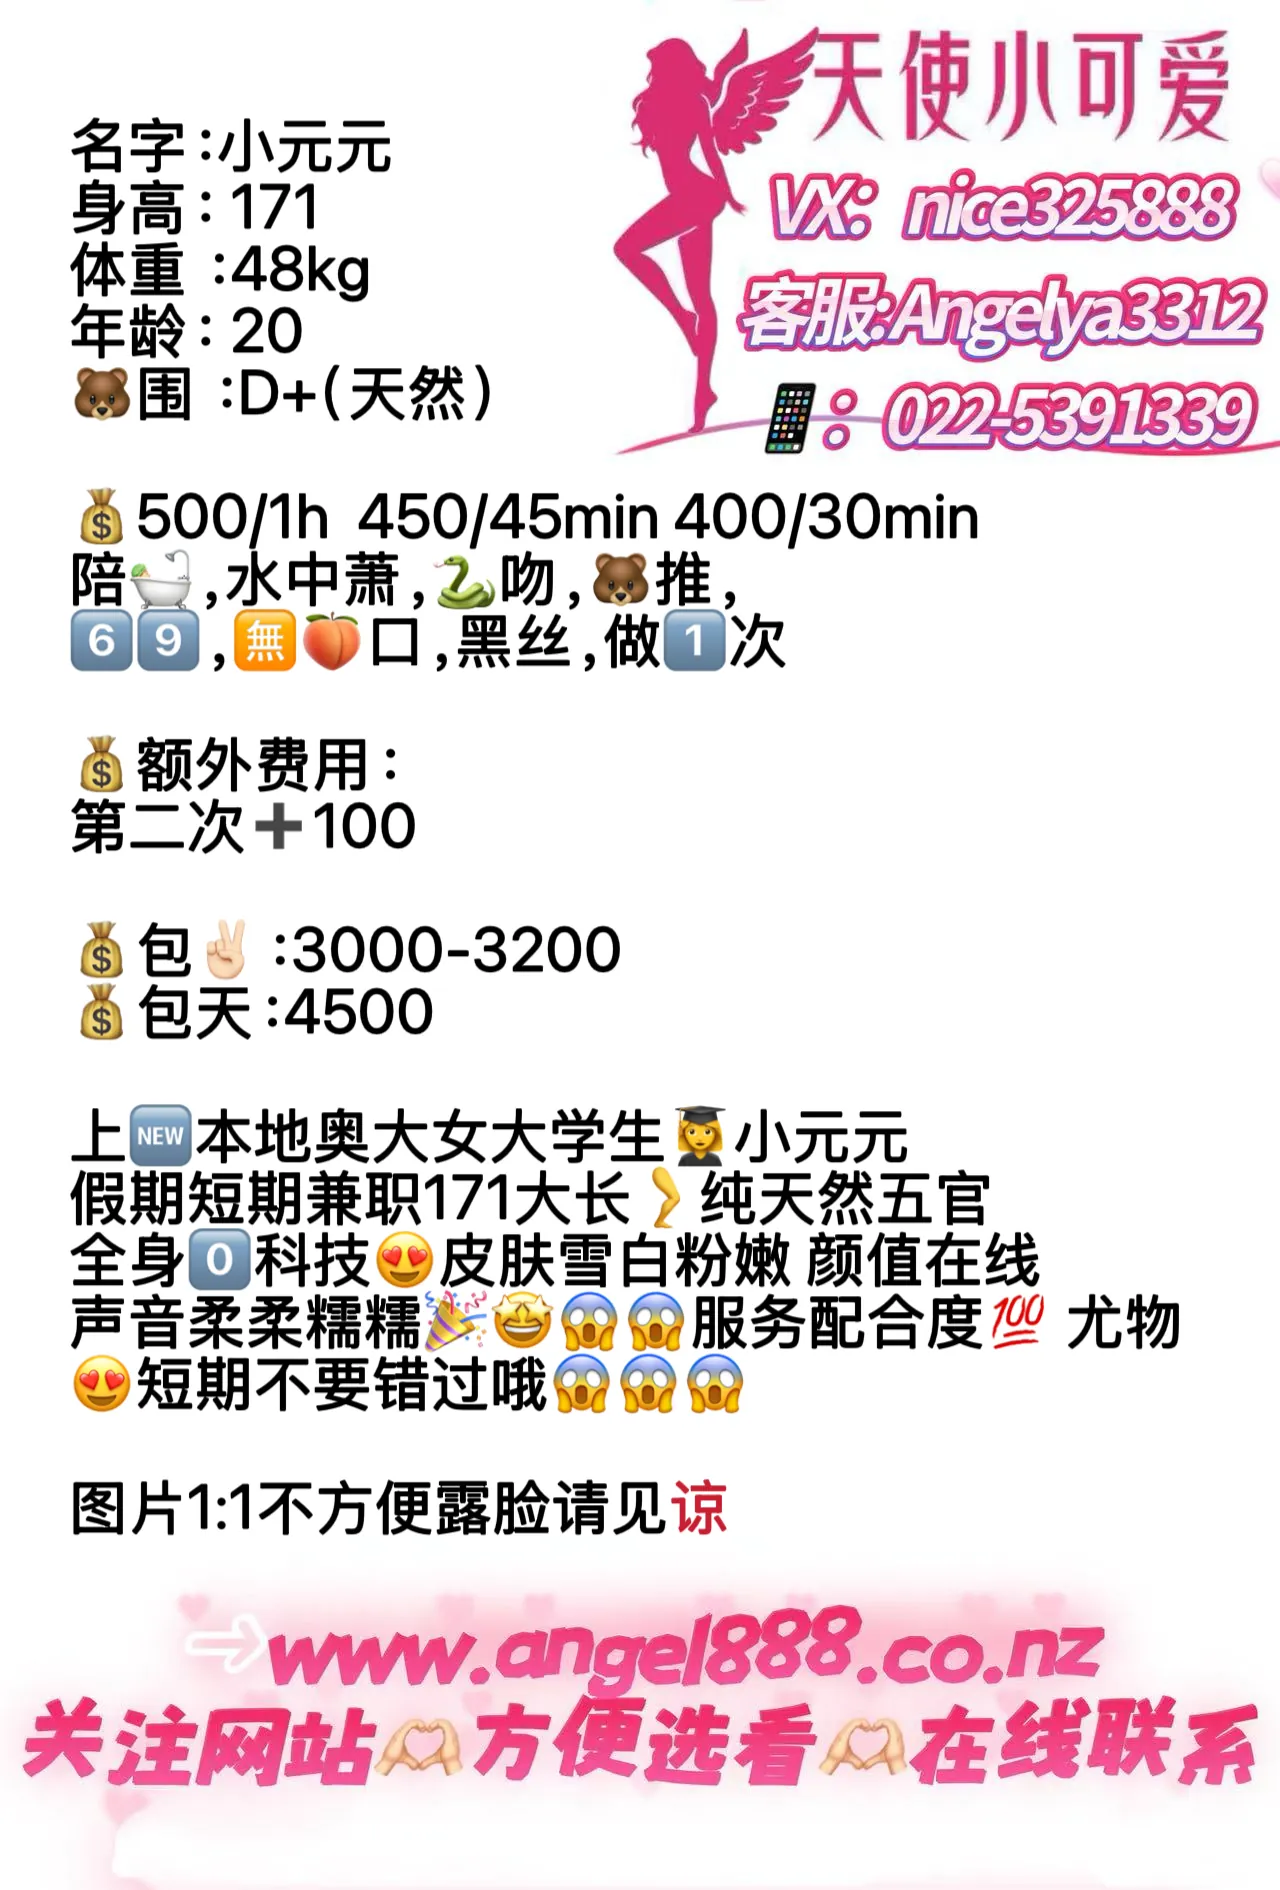
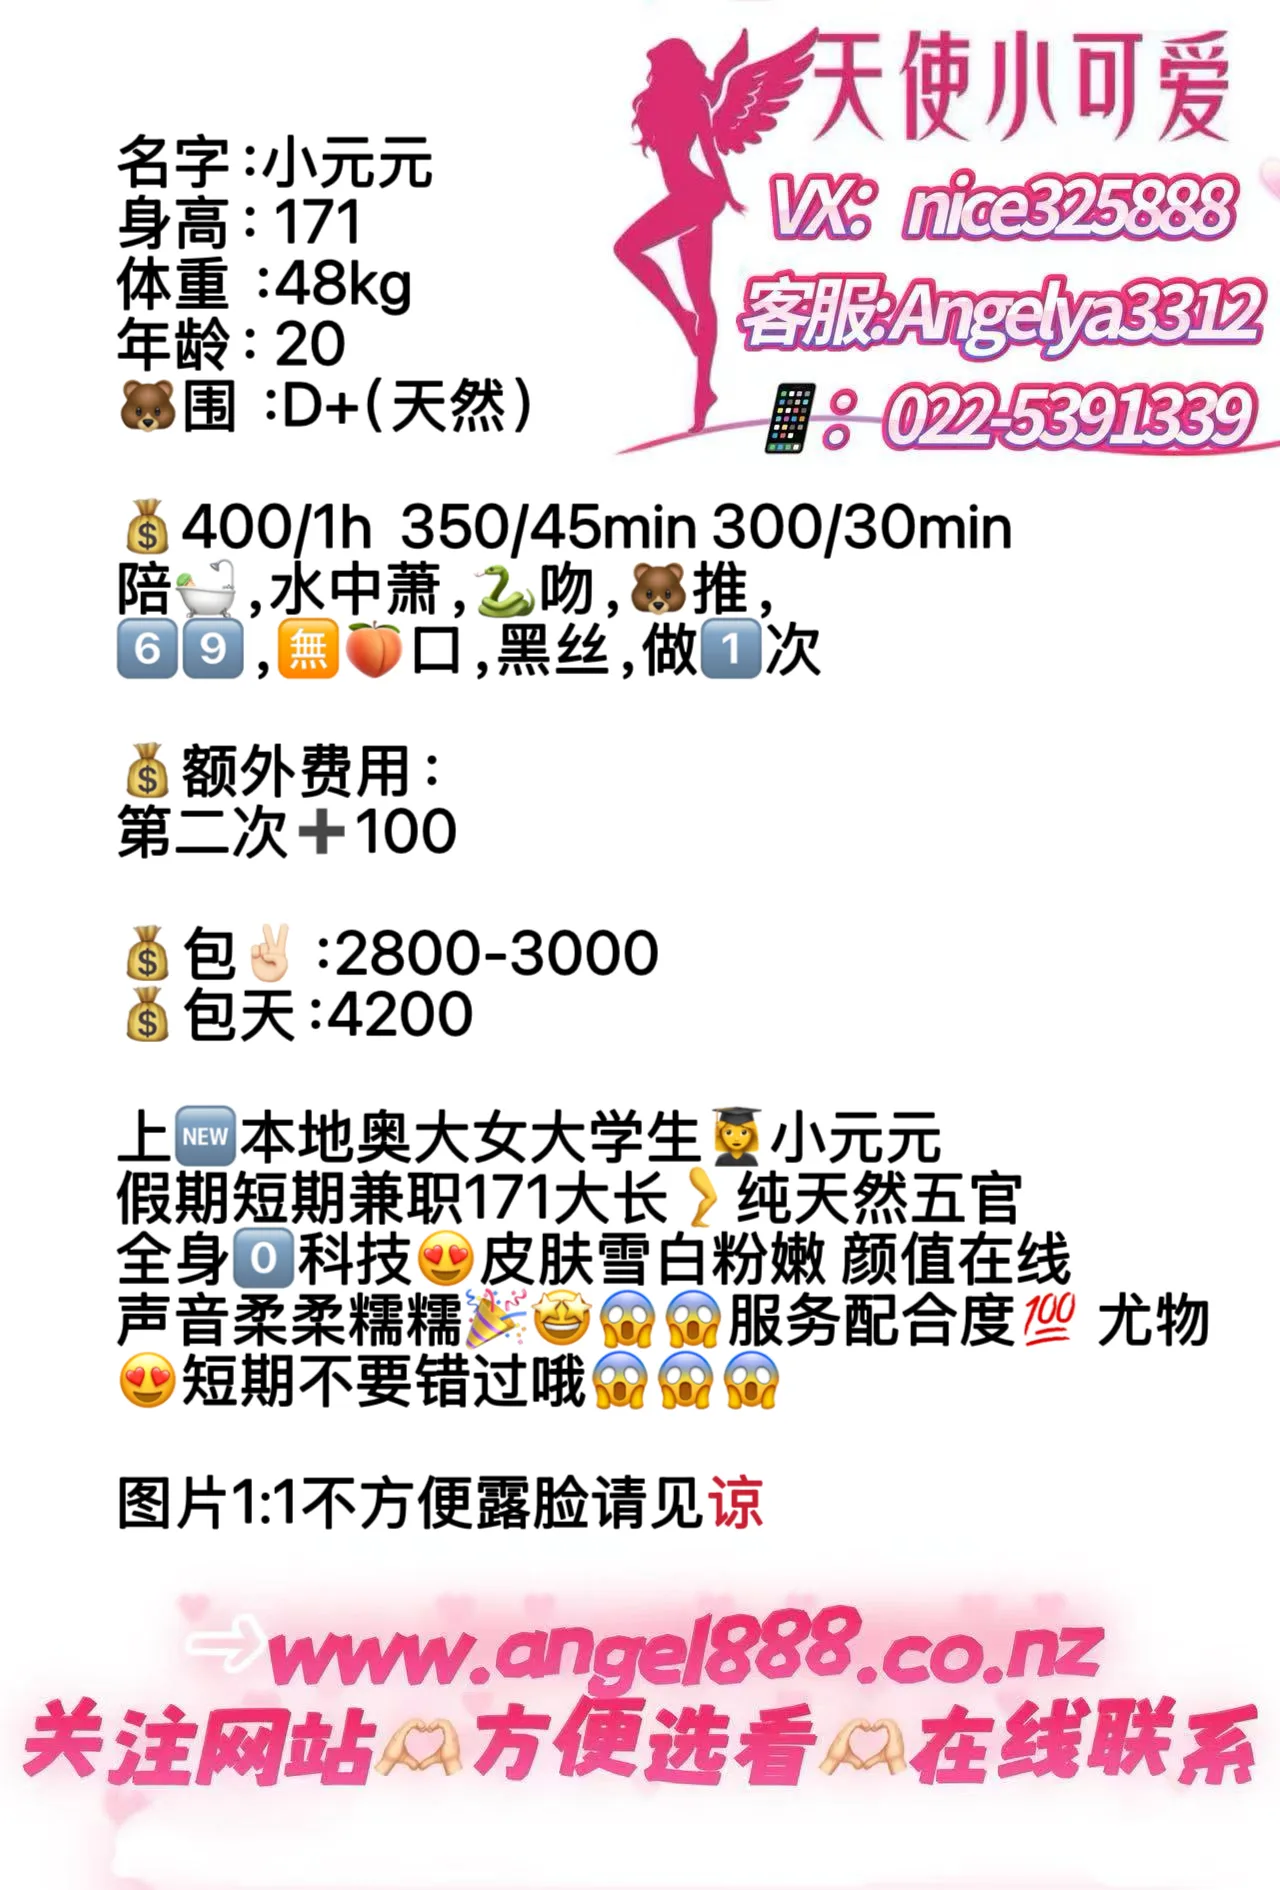
fix: update Yuanyuan (id: 105) data cards and pricing

Changed region(s): [[0.0312, 0.0624, 0.9688, 0.7492], [0.0312, 0.7804, 0.5938, 0.8116]]

diff --git a/src/lib/data.js b/src/lib/data.js
@@ -80,10 +80,10 @@ export const girls = [
     },
     image: "/images/girls/yuanyuan/cover.webp",
     description: {
-      en: "Sweet, graceful, and remarkably tall, Yuanyuan is a 20-year-old undergraduate student from the University of Auckland now providing part-time companionship in CBD Auckland during her holiday break. Standing at an impressive 171cm and 48kg with all-natural D+ curves, she boasts completely natural facial features with zero cosmetic work, fair and tender skin, and a soft, sweet voice. Cooperative, gentle, and lovely, her standard package ($500/1h · $450/45min · $400/30min) includes double shower play, water BJ, deep French kissing, breast massage, mutual oral (69), natural BJ, stockings, and 1 passionate round. Upgrade to a second round for an extra $100. Overnight ($3000-$3200) and all-day ($4500) bookings available.",
-      cn: "🆕奥大在读高挑女大学生兼职！20岁的小元元现已就位奥克兰市区 CBD 为您服务。假期短期兼职，她身高 171cm，体重 48kg，身材修长绝美，拥有纯天然诱人 D+ 罩杯。五官纯天然全身 0 科技，皮肤雪白粉嫩，声音柔糯甜美，服务配合度极高。1 小时套餐（$500/1h · $450/45min · $400/30min）提供双人洗浴、水中吹箫、法式舌吻、胸推漫游、69 互动、无套口吹、黑丝诱惑及 1 次温存互动。加收 $100 可升级做 2 次。另提供包夜（$3000-$3200）与包天（$4500）尊享相伴。",
+      en: "Sweet, graceful, and remarkably tall, Yuanyuan is a 20-year-old undergraduate student from the University of Auckland now providing part-time companionship in CBD Auckland during her holiday break. Standing at an impressive 171cm and 48kg with all-natural D+ curves, she boasts completely natural facial features with zero cosmetic work, fair and tender skin, and a soft, sweet voice. Cooperative, gentle, and lovely, her standard package ($400/1h · $350/45min · $300/30min) includes double shower play, water BJ, deep French kissing, breast massage, mutual oral (69), natural BJ, stockings, and 1 passionate round. Upgrade to a second round for an extra $100. Overnight ($2800-$3000) and all-day ($4200) bookings available.",
+      cn: "🆕奥大在读高挑女大学生兼职！20岁的小元元现已就位奥克兰市区 CBD 为您服务。假期短期兼职，她身高 171cm，体重 48kg，身材修长绝美，拥有纯天然诱人 D+ 罩杯。五官纯天然全身 0 科技，皮肤雪白粉嫩，声音柔糯甜美，服务配合度极高。1 小时套餐（$400/1h · $350/45min · $300/30min）提供双人洗浴、水中吹箫、法式舌吻、胸推漫游、69 互动、无套口吹、黑丝诱惑及 1 次温存互动。加收 $100 可升级做 2 次。另提供包夜（$2800-$3000）与包天（$4200）尊享相伴。",
     },
-    price: "$500 / 1h · $450 / 45min · $400 / 30min",
+    price: "$400 / 1h · $350 / 45min · $300 / 30min",
     services: {
       en: [
         "Shower together",
@@ -95,8 +95,8 @@ export const girls = [
         "Stockings",
         "1 round",
         "Extra: Second round (+$100)",
-        "Overnight stay: $3000 - $3200",
-        "All day: $4500",
+        "Overnight stay: $2800 - $3000",
+        "All day: $4200",
       ],
       cn: [
         "双人洗浴",
@@ -108,8 +108,8 @@ export const girls = [
         "丝袜诱惑",
         "做1次",
         "额外：第二次 (+$100)",
-        "包夜：$3000 - $3200",
-        "包天：$4500",
+        "包夜：$2800 - $3000",
+        "包天：$4200",
       ],
     },
     gallery: [
